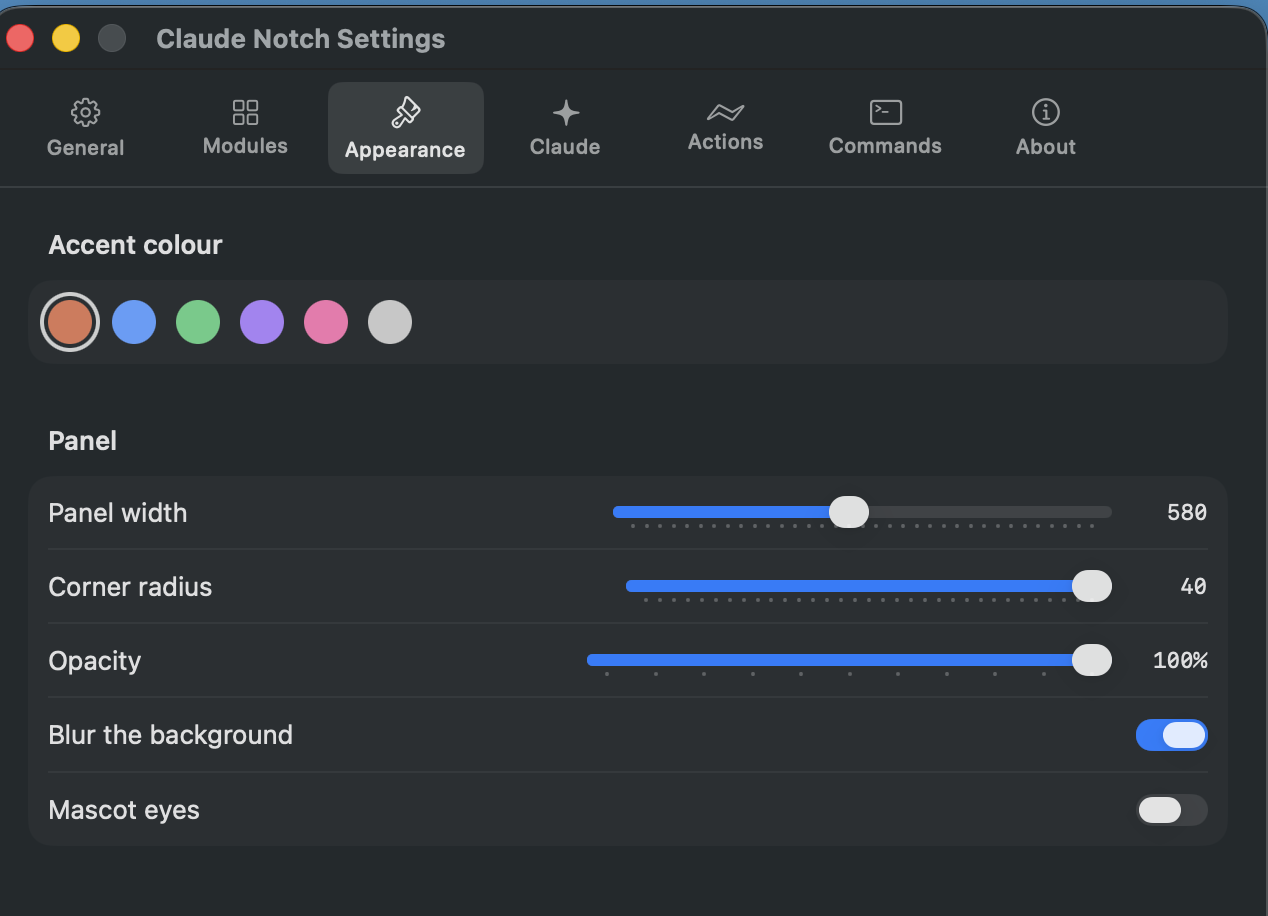
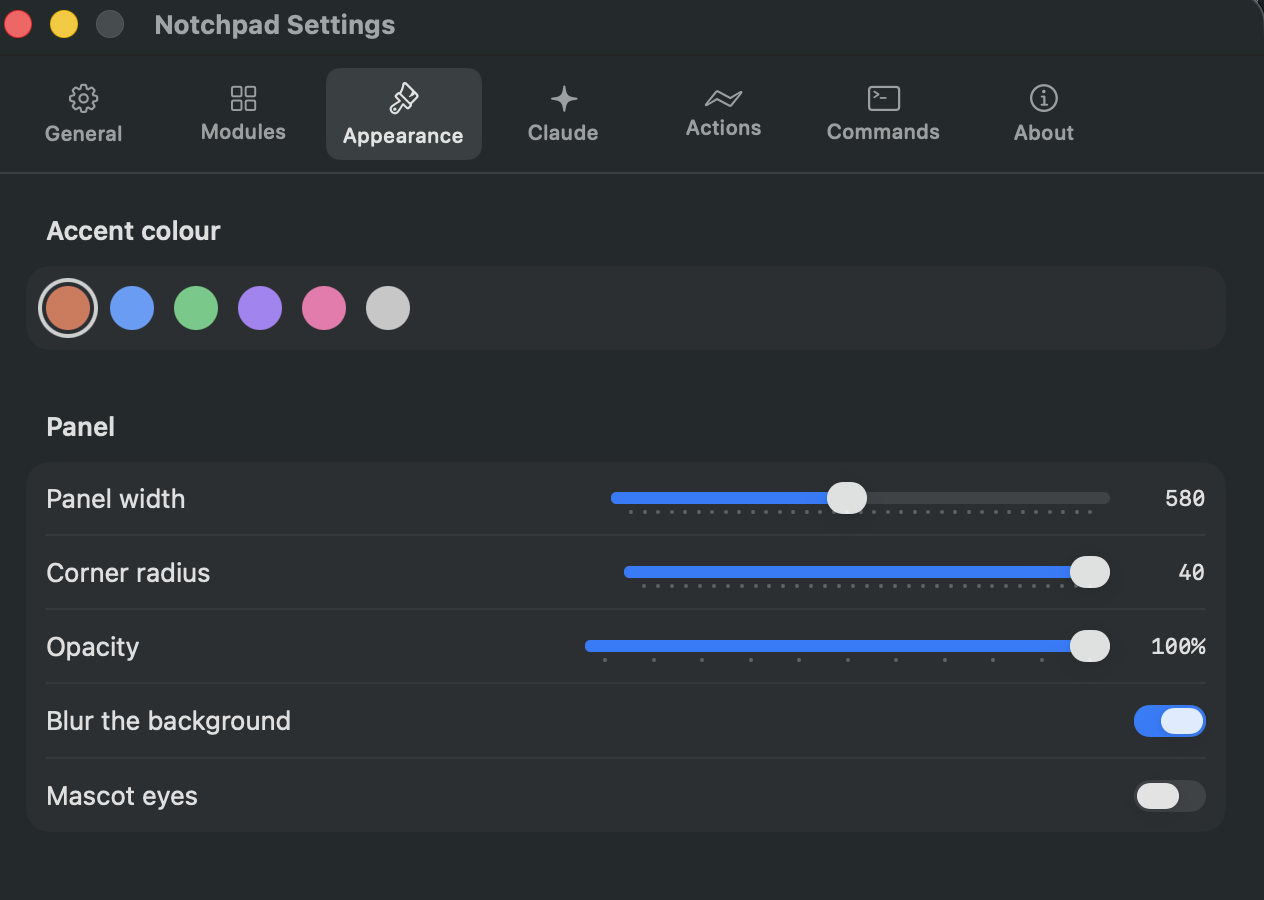
Rename to Notchpad
The name Claude Notch was already taken by another project in the same lists, and
the app long outgrew being only a Claude companion — Claude is one module of fifteen.
Bundle id, socket, hook, support folder and app icon all follow; existing settings
and the support folder migrate on first launch. The app icon is now an original mark;
the Claude starburst stays inside the Claude modules where it means something.

diff --git a/Support/make-icon.swift b/Support/make-icon.swift
@@ -1,6 +1,5 @@
-// Build-time only: renders AppIcon.iconset from the Claude mark.
-// Not part of the app target.
-//   swiftc Support/make-icon.swift Sources/ClaudeNotch/ClaudeMark.swift -o /tmp/make-icon
+// Build-time only: renders AppIcon.iconset. Not part of the app target.
+//   swiftc Support/make-icon.swift -o /tmp/make-icon
 //   /tmp/make-icon <out.iconset>
 import AppKit
 import SwiftUI
@@ -39,19 +38,55 @@ func render(size: CGFloat) -> Data? {
                           end: CGPoint(x: plate.maxX, y: plate.minY), options: [])
     cg.restoreGState()
 
-    // Mark, centred, in Claude orange.
-    let markSize = size * 0.54
-    let markRect = CGRect(x: (size - markSize) / 2, y: (size - markSize) / 2, width: markSize, height: markSize)
-    var path = ClaudeMark().path(in: markRect).cgPath
-    // Flip: SVG is y-down, the bitmap context is y-up.
-    var flip = CGAffineTransform(translationX: 0, y: size).scaledBy(x: 1, y: -1)
-    path = path.copy(using: &flip) ?? path
+    // A screen with a notch bitten out of its top edge, and the tiles you slot under it.
+    let orange = CGColor(srgbRed: 0.851, green: 0.467, blue: 0.341, alpha: 1)
+    let screenW = size * 0.50, screenH = size * 0.44
+    let screen = CGRect(x: (size - screenW) / 2, y: (size - screenH) / 2 + size * 0.02,
+                        width: screenW, height: screenH)
 
     cg.saveGState()
-    cg.addPath(path)
-    cg.setFillColor(CGColor(srgbRed: 0.851, green: 0.467, blue: 0.341, alpha: 1))
-    cg.fillPath()
+    let body = CGMutablePath()
+    let corner = screenH * 0.22
+    let notchW = screenW * 0.42, notchH = screenH * 0.13, notchR = notchH * 0.55
+    let top = screen.maxY, midX = screen.midX
+    body.move(to: CGPoint(x: screen.minX + corner, y: top))
+    body.addLine(to: CGPoint(x: midX - notchW / 2, y: top))
+    body.addLine(to: CGPoint(x: midX - notchW / 2, y: top - notchH + notchR))
+    body.addQuadCurve(to: CGPoint(x: midX - notchW / 2 + notchR, y: top - notchH),
+                      control: CGPoint(x: midX - notchW / 2, y: top - notchH))
+    body.addLine(to: CGPoint(x: midX + notchW / 2 - notchR, y: top - notchH))
+    body.addQuadCurve(to: CGPoint(x: midX + notchW / 2, y: top - notchH + notchR),
+                      control: CGPoint(x: midX + notchW / 2, y: top - notchH))
+    body.addLine(to: CGPoint(x: midX + notchW / 2, y: top))
+    body.addLine(to: CGPoint(x: screen.maxX - corner, y: top))
+    body.addQuadCurve(to: CGPoint(x: screen.maxX, y: top - corner), control: CGPoint(x: screen.maxX, y: top))
+    body.addLine(to: CGPoint(x: screen.maxX, y: screen.minY + corner))
+    body.addQuadCurve(to: CGPoint(x: screen.maxX - corner, y: screen.minY), control: CGPoint(x: screen.maxX, y: screen.minY))
+    body.addLine(to: CGPoint(x: screen.minX + corner, y: screen.minY))
+    body.addQuadCurve(to: CGPoint(x: screen.minX, y: screen.minY + corner), control: CGPoint(x: screen.minX, y: screen.minY))
+    body.addLine(to: CGPoint(x: screen.minX, y: top - corner))
+    body.addQuadCurve(to: CGPoint(x: screen.minX + corner, y: top), control: CGPoint(x: screen.minX, y: top))
+    body.closeSubpath()
+    cg.addPath(body)
+    cg.setStrokeColor(orange)
+    cg.setLineWidth(max(1, size * 0.032))
+    cg.strokePath()
     cg.restoreGState()
+
+    // three tiles, the modules you drop in
+    let tileH = screenH * 0.13
+    let gap = screenH * 0.11
+    let sideInset = screenW * 0.16
+    let fullWidth = screenW - sideInset * 2
+    // widest at the top, tapering down — a stack of modules sitting under the notch
+    var y = screen.minY + screenH * 0.17
+    for (index, width) in [fullWidth * 0.45, fullWidth * 0.72, fullWidth].enumerated() {
+        let tile = CGRect(x: screen.minX + sideInset, y: y, width: width, height: tileH)
+        cg.addPath(CGPath(roundedRect: tile, cornerWidth: tileH / 2, cornerHeight: tileH / 2, transform: nil))
+        cg.setFillColor(orange.copy(alpha: 0.55 + 0.15 * Double(index)) ?? orange)
+        cg.fillPath()
+        y += tileH + gap
+    }
 
     NSGraphicsContext.restoreGraphicsState()
     return rep.representation(using: .png, properties: [:])

diff --git a/Sources/Notchpad/AppDelegate.swift b/Sources/Notchpad/AppDelegate.swift
@@ -135,7 +135,7 @@ final class AppDelegate: NSObject, NSApplicationDelegate, NSWindowDelegate {
         guard status != lastIconStatus, let button = statusItem?.button else { return }
         lastIconStatus = status
         let name = status == .waitingForApproval ? "sparkle.magnifyingglass" : "sparkle"
-        guard let base = NSImage(systemSymbolName: name, accessibilityDescription: "Claude Notch") else { return }
+        guard let base = NSImage(systemSymbolName: name, accessibilityDescription: "Notchpad") else { return }
         if status == .idle {
             base.isTemplate = true
             button.image = base
@@ -250,7 +250,7 @@ final class AppDelegate: NSObject, NSApplicationDelegate, NSWindowDelegate {
 
     private func installMenuBarItem() {
         let item = NSStatusBar.system.statusItem(withLength: NSStatusItem.variableLength)
-        item.button?.image = NSImage(systemSymbolName: "sparkle", accessibilityDescription: "Claude Notch")
+        item.button?.image = NSImage(systemSymbolName: "sparkle", accessibilityDescription: "Notchpad")
         item.button?.image?.isTemplate = true
 
         let menu = NSMenu()
@@ -295,7 +295,7 @@ final class AppDelegate: NSObject, NSApplicationDelegate, NSWindowDelegate {
             let panel = SettingsPanel(contentRect: CGRect(x: 0, y: 0, width: 640, height: 470),
                                       styleMask: [.titled, .closable, .miniaturizable, .nonactivatingPanel],
                                       backing: .buffered, defer: false)
-            panel.title = "Claude Notch Settings"
+            panel.title = "Notchpad Settings"
             panel.contentView = ClickThroughHostingView(rootView: SettingsView())
             panel.isReleasedWhenClosed = false
             panel.hidesOnDeactivate = false

diff --git a/Sources/Notchpad/Prefs.swift b/Sources/Notchpad/Prefs.swift
@@ -72,6 +72,7 @@ final class Prefs: ObservableObject {
     @Published var commands: [QuickCommand] { didSet { saveCommands() } }
 
     private init() {
+        Prefs.migrateFromLegacyDomain(into: d)
         d.register(defaults: [
             "hoverToOpen": true, "showUsage": true, "mascotEyes": true, "hotkeyEnabled": true,
             "panelWidth": 580.0, "cornerRadius": 26.0, "panelOpacity": 1.0, "hoverDelay": 0.0,
@@ -105,6 +106,23 @@ final class Prefs: ObservableObject {
         breakMinutes = d.double(forKey: "breakMinutes")
         weatherCity = d.string(forKey: "weatherCity") ?? ""
         commands = Prefs.loadCommands(d) ?? QuickCommand.samples
+    }
+
+    /// The app was called Claude Notch until 2.3. Carry the old preferences and support
+    /// folder over so an existing setup survives the rename.
+    private static func migrateFromLegacyDomain(into d: UserDefaults) {
+        guard d.object(forKey: "migratedFromClaudeNotch") == nil else { return }
+        let legacy = "com.claudenotch.app"
+        if let old = UserDefaults(suiteName: legacy)?.persistentDomain(forName: legacy) {
+            for (key, value) in old where d.object(forKey: key) == nil { d.set(value, forKey: key) }
+        }
+        let support = FileManager.default.urls(for: .applicationSupportDirectory, in: .userDomainMask)[0]
+        let from = support.appendingPathComponent("ClaudeNotch")
+        let to = support.appendingPathComponent("Notchpad")
+        if FileManager.default.fileExists(atPath: from.path), !FileManager.default.fileExists(atPath: to.path) {
+            try? FileManager.default.moveItem(at: from, to: to)
+        }
+        d.set(true, forKey: "migratedFromClaudeNotch")
     }
 
     /// Enabled modules in the user's order — what the tab bar shows.

diff --git a/Sources/Notchpad/Launcher.swift b/Sources/Notchpad/Launcher.swift
@@ -50,7 +50,7 @@ enum LoginItem {
                 try SMAppService.mainApp.unregister()
             }
         } catch {
-            NSLog("ClaudeNotch: login item → \(error)")
+            NSLog("Notchpad: login item → \(error)")
             Launcher.onError?(enabled ? "Could not enable launch at login" : "Could not disable launch at login")
         }
         return isEnabled
@@ -74,7 +74,7 @@ enum Launcher {
 
     private static var launchDir: URL {
         let base = FileManager.default.urls(for: .applicationSupportDirectory, in: .userDomainMask)[0]
-            .appendingPathComponent("ClaudeNotch/launch", isDirectory: true)
+            .appendingPathComponent("Notchpad/launch", isDirectory: true)
         try? FileManager.default.createDirectory(at: base, withIntermediateDirectories: true)
         return base
     }
@@ -116,7 +116,7 @@ enum Launcher {
             try script.write(to: file, atomically: true, encoding: .utf8)
             try FileManager.default.setAttributes([.posixPermissions: 0o755], ofItemAtPath: file.path)
         } catch {
-            NSLog("ClaudeNotch: could not write launch script — \(error)")
+            NSLog("Notchpad: could not write launch script — \(error)")
             onError?("Could not write the launch script")
             return
         }
@@ -125,7 +125,7 @@ enum Launcher {
         config.activates = true
         NSWorkspace.shared.open([file], withApplicationAt: terminal.url, configuration: config) { _, error in
             guard let error else { return }
-            NSLog("ClaudeNotch: launch failed — \(error)")
+            NSLog("Notchpad: launch failed — \(error)")
             DispatchQueue.main.async { onError?("Could not open \(terminal.name)") }
         }
     }

diff --git a/Sources/Notchpad/Power.swift b/Sources/Notchpad/Power.swift
@@ -39,7 +39,7 @@ final class PowerStore: ObservableObject {
     @Published private(set) var lidExpiry: Date?
 
     private var assertionID: IOPMAssertionID = 0
-    private let sentinel = "/tmp/claude-notch-lid-awake"
+    private let sentinel = "/tmp/notchpad-lid-awake"
 
     private init() {
         keepDisplayAwake = UserDefaults.standard.bool(forKey: "keepDisplayAwake")
@@ -114,7 +114,7 @@ final class PowerStore: ObservableObject {
             var id: IOPMAssertionID = 0
             let result = IOPMAssertionCreateWithName(type,
                                                      IOPMAssertionLevel(kIOPMAssertionLevelOn),
-                                                     "Claude Notch — keep awake" as CFString,
+                                                     "Notchpad — keep awake" as CFString,
                                                      &id)
             guard result == kIOReturnSuccess else {
                 Launcher.onError?("Could not keep the Mac awake")
@@ -152,7 +152,7 @@ final class PowerStore: ObservableObject {
 
         // The helper is written to disk rather than inlined, so nothing has to survive
         // three levels of shell/AppleScript quoting.
-        let helperPath = NSTemporaryDirectory() + "claude-notch-lid-helper.sh"
+        let helperPath = NSTemporaryDirectory() + "notchpad-lid-helper.sh"
         let helper = """
         #!/bin/sh
         /usr/bin/pmset -a disablesleep 1

diff --git a/Sources/Notchpad/SessionServer.swift b/Sources/Notchpad/SessionServer.swift
@@ -27,10 +27,10 @@ struct HookEvent {
 
 /// Listens on a Unix socket for hook events fired by Claude Code.
 final class SessionServer {
-    static let socketPath = "/tmp/claude-notch.sock"
+    static let socketPath = "/tmp/notchpad.sock"
 
     private var listenFD: Int32 = -1
-    private let queue = DispatchQueue(label: "com.claudenotch.socket")
+    private let queue = DispatchQueue(label: "com.notchpad.socket")
     private var source: DispatchSourceRead?
     private let onEvent: (HookEvent) -> Void
 
@@ -41,7 +41,7 @@ final class SessionServer {
     func start() {
         unlink(SessionServer.socketPath)
         let fd = socket(AF_UNIX, SOCK_STREAM, 0)
-        guard fd >= 0 else { NSLog("ClaudeNotch: socket() failed"); return }
+        guard fd >= 0 else { NSLog("Notchpad: socket() failed"); return }
 
         var addr = sockaddr_un()
         addr.sun_family = sa_family_t(AF_UNIX)
@@ -58,7 +58,7 @@ final class SessionServer {
             $0.withMemoryRebound(to: sockaddr.self, capacity: 1) { bind(fd, $0, size) }
         }
         guard bound == 0, listen(fd, 32) == 0 else {
-            NSLog("ClaudeNotch: bind/listen failed on \(path)")
+            NSLog("Notchpad: bind/listen failed on \(path)")
             close(fd)
             return
         }

diff --git a/Sources/Notchpad/SettingsView.swift b/Sources/Notchpad/SettingsView.swift
@@ -267,7 +267,7 @@ private struct ClaudeTab: View {
 
             Section {
                 LabeledContent("claude") { Text(Launcher.claudeBinary).font(.mono(10)).foregroundStyle(.secondary) }
-                LabeledContent("hook") { Text("~/.claude/hooks/claude-notch-hook.py").font(.mono(10)).foregroundStyle(.secondary) }
+                LabeledContent("hook") { Text("~/.claude/hooks/notchpad-hook.py").font(.mono(10)).foregroundStyle(.secondary) }
                 LabeledContent("socket") { Text(SessionServer.socketPath).font(.mono(10)).foregroundStyle(.secondary) }
             } header: { Text("Paths") }
         }
@@ -388,7 +388,7 @@ private struct AboutTab: View {
     var body: some View {
         VStack(spacing: 12) {
             ClaudeMark().fill(Prefs.shared.accentColor).frame(width: 54, height: 54)
-            Text("Claude Notch").font(.ui(17, .semibold))
+            Text("Notchpad").font(.ui(17, .semibold))
             Text("version \(Bundle.main.infoDictionary?["CFBundleShortVersionString"] as? String ?? "—")")
                 .font(.ui(11)).foregroundStyle(.secondary)
             Text("Turns the MacBook notch into a Claude Code panel, a file shelf, a system monitor and a timer.")

diff --git a/Sources/Notchpad/UsageStore.swift b/Sources/Notchpad/UsageStore.swift
@@ -84,7 +84,7 @@ actor UsageStore {
 
     private var cacheURL: URL {
         let base = FileManager.default.urls(for: .applicationSupportDirectory, in: .userDomainMask)[0]
-            .appendingPathComponent("ClaudeNotch", isDirectory: true)
+            .appendingPathComponent("Notchpad", isDirectory: true)
         try? FileManager.default.createDirectory(at: base, withIntermediateDirectories: true)
         return base.appendingPathComponent("usage-cache.json")
     }

diff --git a/Package.swift b/Package.swift
@@ -2,12 +2,12 @@
 import PackageDescription
 
 let package = Package(
-    name: "ClaudeNotch",
+    name: "Notchpad",
     platforms: [.macOS(.v14)],
     targets: [
         .executableTarget(
-            name: "ClaudeNotch",
-            path: "Sources/ClaudeNotch",
+            name: "Notchpad",
+            path: "Sources/Notchpad",
             swiftSettings: [.swiftLanguageMode(.v5)]
         )
     ]

diff --git a/Sources/Notchpad/NotchView.swift b/Sources/Notchpad/NotchView.swift
@@ -328,5 +328,5 @@ struct VisualEffectBackdrop: NSViewRepresentable {
 }
 
 extension Notification.Name {
-    static let openPreferences = Notification.Name("ClaudeNotch.openPreferences")
+    static let openPreferences = Notification.Name("Notchpad.openPreferences")
 }
